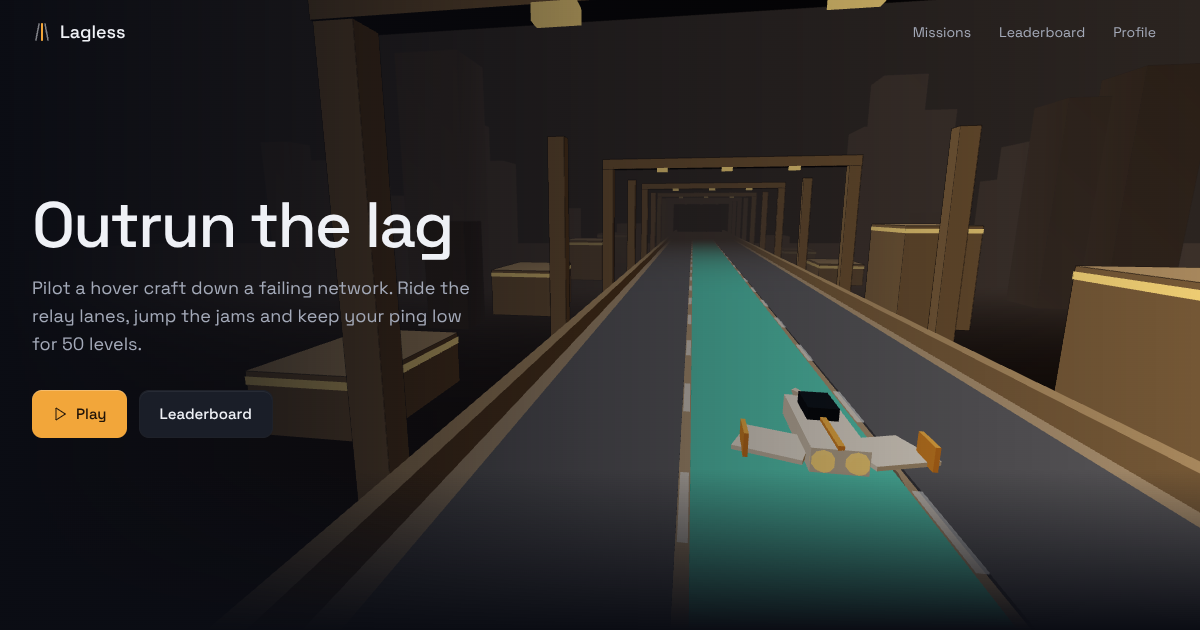
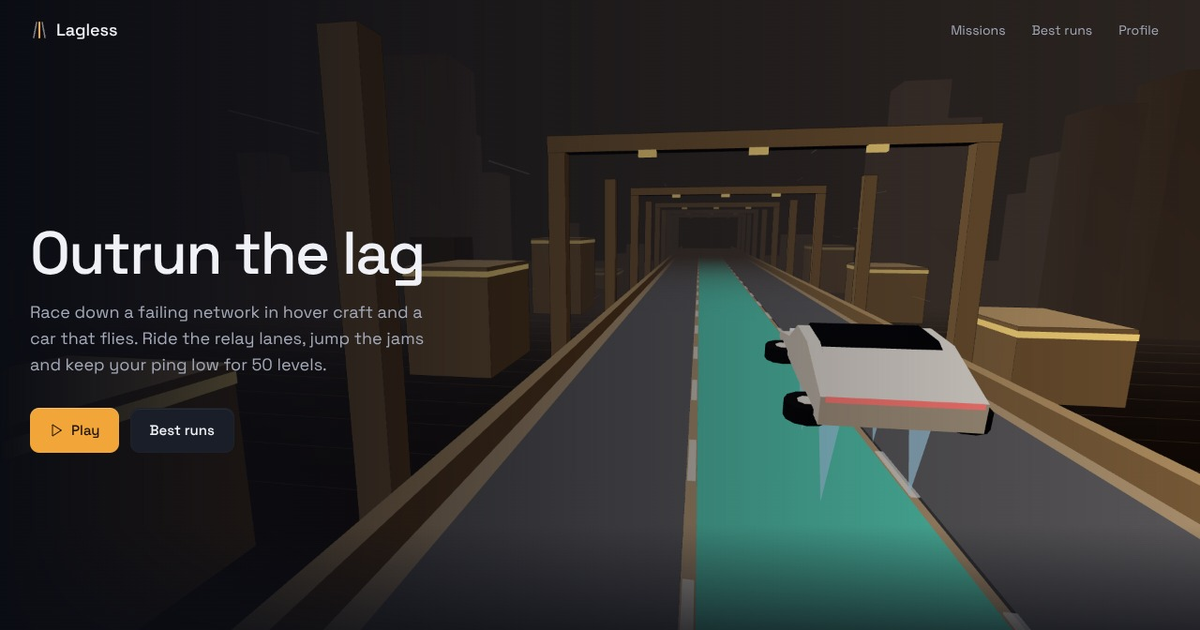
Rewrite the README and refresh the social preview
The README now follows a standard layout: what the game is and a play
link, gameplay rules, controls, a runners table with real ability timings,
the five worlds with their level ranges, features, screenshots, getting
started with every npm script, deploying, project structure, how the
engine and 3D view fit together, how AI was used, a roadmap, and credits
with licences. It had gone stale: it still described a single hover craft
and three runners.

The social preview image showed the old landing page; it now shows Volt
lifting off on the current home screen. Screenshots live in
docs/screenshots.

Claude-Session: https://claude.ai/code/session_01WGz1ETgna2pQmuvuAmq2sv

diff --git a/README.md b/README.md
@@ -1,72 +1,171 @@
 # Lagless
 
-**Outrun the lag. Route the packet.**
+A 3D three-lane runner you play in the browser. Race a hover craft, or a car that flies, down a failing network: dodge hazards, ride the relay lanes that refill your latency budget, and climb through five worlds to level 50.
 
-**Play it: [lagless-inky.vercel.app](https://lagless-inky.vercel.app)**
+**[Play it now](https://lagless-inky.vercel.app)** · free, no install, works on desktop and phone
 
-![Lagless](public/og-image.png)
+![Volt lifting off on the Lagless home screen](public/og-image.png)
 
-Lagless is a 3D three-lane runner you play in the browser. You pilot a hover craft down a failing network: dodge congestion, jump crates, storm pylons and broken gates, ride the teal relay lanes to refill your latency budget, and climb through five worlds to level 50.
+## Contents
 
-## How to play
+- [Gameplay](#gameplay)
+- [Controls](#controls)
+- [Runners](#runners)
+- [Worlds](#worlds)
+- [Features](#features)
+- [Screenshots](#screenshots)
+- [Getting started](#getting-started)
+- [Project structure](#project-structure)
+- [How it works](#how-it-works)
+- [Built with AI](#built-with-ai)
+- [Roadmap](#roadmap)
+- [Credits](#credits)
+
+## Gameplay
+
+You are a packet crossing a network that is falling apart. Every run is a race against your **latency budget**, shown in milliseconds:
+
+- The budget drains all the time, and fast on **red congested lanes**. At 0 ms the run times out.
+- **Teal relay lanes** and **teal diamonds** refill it and build your combo, which multiplies your score.
+- **Hazards** (crates, storm pylons and broken gates) cost hull. **Green crosses** repair it; **amber coins** add score.
+- **Collapsing lanes** flicker and sink for a few seconds, then recover as fast lanes.
+
+Each runner has one ability on a cooldown. Checkpoints save from level 10, so a long run is never lost: Retry resumes from the last checkpoint you passed.
+
+## Controls
 
 | Action | Keyboard | Touch |
 | --- | --- | --- |
-| Switch lane | `←` `→` or `A` `D` | Swipe left / right |
-| Jump | `Space`, `↑` or `W` | Tap or swipe up |
-| Character ability | `E` or `Shift` | Ability button, bottom right |
+| Switch lane | `←` `→` or `A` `D` | Swipe left or right |
+| Jump (Volt: fly) | `Space`, `↑` or `W` | Tap or swipe up |
+| Ability | `E` or `Shift` | Ability button, bottom right |
+| Pause | Pause button | Pause button |
 
-- **Latency budget** is shown in ms. It drains all the time, and fast on red congested lanes. Teal relay lanes and teal diamonds refill it. At 0 ms the run times out.
-- **Hull** drops when you hit a hazard. Green crosses repair it.
-- **Combos** build while you ride relay lanes and multiply your score. Amber coins add score.
+The game pauses by itself if you switch apps or tabs mid-run.
 
-## What's in it
+## Runners
 
-- **Five worlds**, each with its own speed, hazards, palette and scenery: Congestion Zone, Fragmented Grid, Mesh Awakening, Anchor Yards and Clear Channel, with boss waves at levels 25 and 39.
-- **Four runners**, each with an ability:
-  - Dart, Overdrive: double speed and pass straight through hazards
-  - Hopper, Hop: jump 200 m ahead and refill 30 ms of latency
-  - Anchor, Clear lanes: turn every lane back to a fast lane
-  - Volt, Lift-off: a road car that flies. Its wheels fold and four thrusters fire when it jumps, so its jump goes higher and lasts longer; Lift-off holds it above every lane for 3 s
-- **Checkpoints** from level 10, so a long run can restart part-way rather than at level 1.
-- **Daily missions, achievements and best runs**: your top 10 scores on this device.
-- **Procedural audio**: music and sound effects are generated live with the Web Audio API. There are no audio files.
+| Runner | Craft | Ability | Lasts | Recharge |
+| --- | --- | --- | --- | --- |
+| **Dart** | Slim racer | **Overdrive**: double speed and pass straight through hazards | 3 s | 10 s |
+| **Hopper** | Twin-pod relay courier | **Hop**: jump 200 m ahead and refill 30 ms of latency | 2 s | 12 s |
+| **Anchor** | Heavy hauler | **Clear lanes**: turn every lane back to a fast lane | 4 s | 15 s |
+| **Volt** | Road car that flies | **Lift-off**: fly above every lane, clear of all hazards | 3 s | 14 s |
 
-## Built with AI
+Volt drives on four wheels. When it jumps, the wheels fold flat and four thrusters fire underneath, so its jump goes higher and lasts longer than the others'.
 
-- **[Lovable](https://lovable.dev)** generated the original game from prompts: the engine, the canvas renderer, the UI and the progression systems.
-- **[Claude Code](https://claude.com/claude-code)** made the November 2026 updates:
-  - the Three.js renderer, the five 3D worlds and the four runners, all built in code from primitives
-  - the new runners and world names
-  - a full interface redesign, guided by the [unslop](https://github.com/heydamir/unslop) skill by Damir Sokolovsky (CC BY 4.0)
-  - the rename to Lagless, guest play and best runs
-  - this README and the social preview image
+## Worlds
 
-## Run it locally
+| Levels | World | Character |
+| --- | --- | --- |
+| 1–12 | **Congestion Zone** | Dusk haze, slow and dense, red static in the air |
+| 13–25 | **Fragmented Grid** | Cold night, lanes drop out, panels glitch beside the track |
+| 26–32 | **Mesh Awakening** | First light, relay masts linked across the track, combo-friendly |
+| 33–39 | **Anchor Yards** | Sodium-lit freight yard, stability zones, high combos |
+| 40–50 | **Clear Channel** | The final world: bright, fast, few hazards, hardest hits |
 
-Requires Node.js 18 or newer.
+Levels 25 and 39 are boss waves, with denser hazards and a red-framed screen. Finish level 50 to clear the network.
+
+## Features
+
+- **Five 3D worlds** with their own palettes, scenery and ambient effects, blending as you cross from one to the next
+- **Four runners** with distinct abilities, including Volt's flight
+- **Checkpoints** from level 10, with Retry from the last one passed
+- **Daily missions**: four goals that reset at 00:00 UTC; finishing them unlocks a one-time 2-minute preview of Clear Channel
+- **Achievements**, a **profile**, and **best runs**, your top 10 scores on this device
+- **First-run coaching**: for a player's first runs, relay diamonds and lanes blink, with a short hint, until they've got the idea
+- **Procedural audio**: music and effects are synthesised live with the Web Audio API, with no audio files
+- **Guest play** or any username, no account needed
+
+## Screenshots
+
+| | |
+| --- | --- |
+| ![Runner select with Volt](docs/screenshots/runner-select.jpg) | ![Volt flying in Anchor Yards](docs/screenshots/anchor-yards.jpg) |
+| ![Fragmented Grid at night](docs/screenshots/fragmented-grid.jpg) | ![Clear Channel, the final world](docs/screenshots/clear-channel.jpg) |
+
+## Getting started
+
+Requires [Node.js](https://nodejs.org) 18 or newer.
 
 ```bash
+git clone https://github.com/Ritapossible/Lagless.git
+cd Lagless
 npm ci
 npm run dev        # http://localhost:8080
 ```
 
-Other commands:
+| Command | What it does |
+| --- | --- |
+| `npm run dev` | Start the dev server with hot reload |
+| `npm run build` | Production build into `dist/` |
+| `npm run preview` | Serve the production build locally |
+| `npm test` | Run the unit tests (Vitest) |
+| `npm run lint` | Lint with ESLint |
 
-```bash
-npm test           # unit tests (Vitest)
-npm run lint       # ESLint
-npm run build      # production build in dist/
+### Deploying
+
+Lagless is a static site. It deploys to [Vercel](https://vercel.com) with no configuration: import the repo and deploy. `vercel.json` routes every path to the app so links like `/runs` work when opened directly. Every push to `main` redeploys.
+
+## Project structure
+
+```
+src/
+├── game/
+│   ├── engine.ts          Game rules and state: movement, spawning, collisions, abilities, levels
+│   ├── types.ts           Game state, world and runner definitions
+│   ├── playerProgress.ts  Saved progress, checkpoints, trials
+│   ├── dailyMissions.ts   Daily missions and reward
+│   ├── bestRuns.ts        Top 10 runs on this device
+│   ├── relayHint.ts       When to coach new players
+│   ├── audio.ts           Procedural music and sound effects
+│   └── three/             3D view
+│       ├── GameRenderer.ts  Track, hazards, pickups, camera, world palettes
+│       ├── craft.ts         The four runners, built from primitives
+│       ├── effects.ts       Per-world atmosphere and ability effects
+│       └── CraftStage.ts    Turntable on the runner select screen
+├── components/            HUD, overlays, runner select, shared UI
+├── pages/                 Home, Play, Missions, Best runs, Profile
+└── test/                  Unit tests
 ```
 
-It deploys to Vercel as a static site with no configuration. `vercel.json` already routes every path to the app.
+## How it works
 
-## Tech
+- **Engine and view are separate.** `engine.ts` owns every rule and returns a new `GameState` each frame. The 3D view in `src/game/three/` only reads that state and draws it, so gameplay can be tested without a browser and the renderer can change without touching the rules.
+- **No art files.** Every craft, hazard and building is made from simple shapes with flat shading and edge lines, so the game loads fast and stays small.
+- **No backend.** Progress, missions and best runs live in the browser's `localStorage`. Saves from earlier versions are migrated on load.
+- **Tested.** 25 unit tests cover the engine (including each runner's jump physics and Lift-off), checkpoints and retry, the one-time trial, daily missions, best runs and save migrations.
 
-React, TypeScript, Vite, Tailwind CSS and [Three.js](https://threejs.org). The game engine (`src/game/engine.ts`) owns all the rules and state; the 3D view (`src/game/three/`) only reads that state each frame, so gameplay and rendering stay separate. There are no model or texture files: every craft, hazard and building is made from simple shapes with flat shading.
+Built with React, TypeScript, Vite, Tailwind CSS and [Three.js](https://threejs.org).
 
-Progress, missions and best runs are saved in the browser's `localStorage`. There is no backend and no account.
+## Built with AI
 
----
+AI was used throughout development:
 
-Built with 💜 by [RitaCryptoTips](https://x.com/RitaCryptoTips)
+- **[Lovable](https://lovable.dev)** generated the original game from prompts: the game engine, the first 2D canvas renderer, the interface and the progression systems.
+- **[Claude Code](https://claude.com/claude-code)** made the November 2026 updates:
+  - the Three.js renderer, the five 3D worlds and the four runners, built in code from primitives
+  - Volt, the flying car, and per-runner jump physics
+  - per-world atmosphere and ability effects
+  - an interface redesign guided by the [unslop](https://github.com/heydamir/unslop) skill
+  - checkpoints with Retry, the one-time trial, first-run coaching, usernames and best runs
+  - bug fixes, tests, this README and the trailer
+
+## Roadmap
+
+What comes next, roughly in order:
+
+1. **Global leaderboards**: a small backend so players compete across devices, with daily and all-time boards and per-runner rankings.
+2. **Daily seeded run**: one shared track layout per day, so everyone faces the same hazards and scores compare fairly.
+3. **Ghost replays**: race a faint copy of your best run, or a friend's.
+4. **More runners and worlds**: new abilities, and new hazard types per world, such as moving gates and lanes that merge.
+5. **Controller and accessibility support**: gamepad input, remappable keys, reduced motion, colour-blind lane palettes and adjustable speed.
+6. **Installable app**: offline play as a PWA, with haptics on phones.
+7. **Sound**: a fuller soundtrack per world that reacts to your combo and latency budget.
+
+## Credits
+
+- Game by [RitaCryptoTips](https://x.com/RitaCryptoTips)
+- Interface redesign guided by [unslop](https://github.com/heydamir/unslop) by Damir Sokolovsky, licensed CC BY 4.0
+- Fonts: [Space Grotesk](https://fonts.google.com/specimen/Space+Grotesk) and [JetBrains Mono](https://fonts.google.com/specimen/JetBrains+Mono), SIL Open Font License
+- 3D: [Three.js](https://threejs.org), MIT License; icons: [Lucide](https://lucide.dev), ISC License
